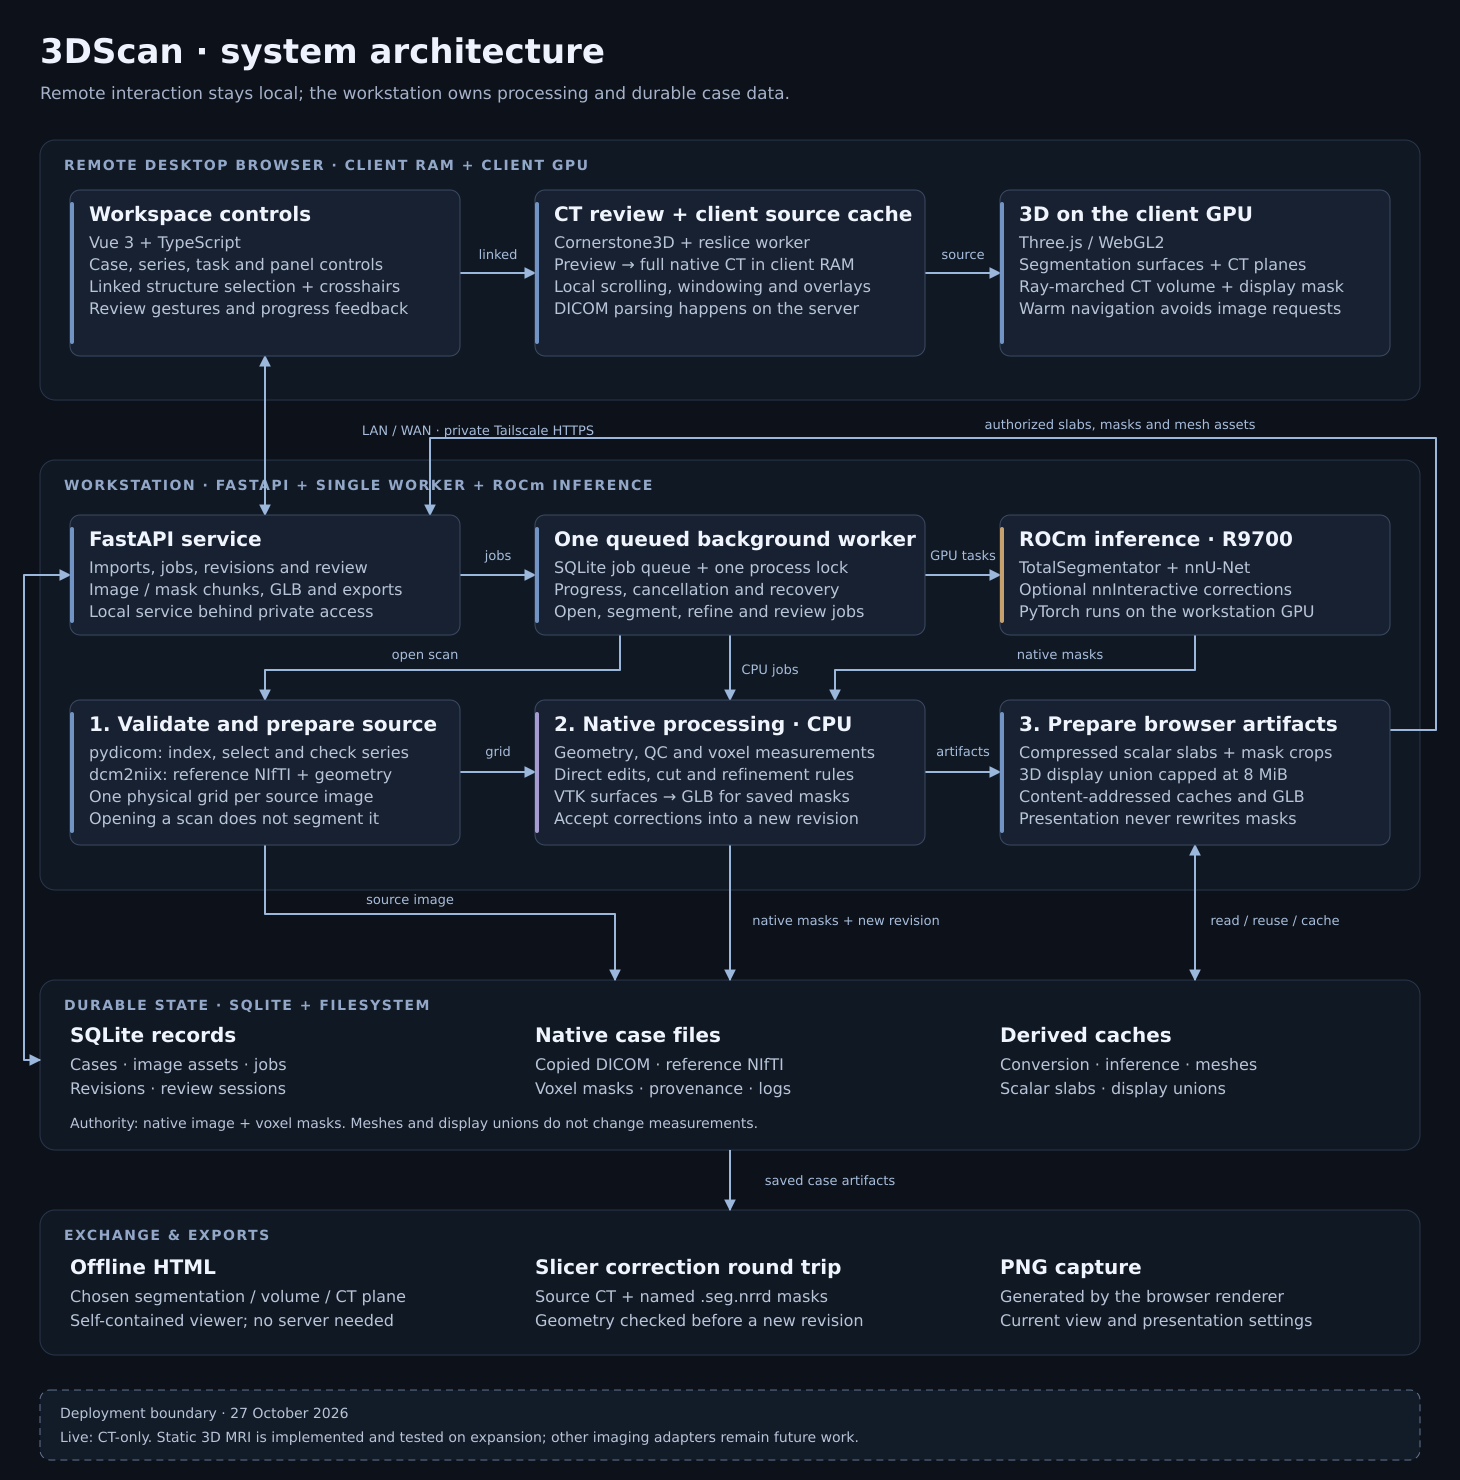
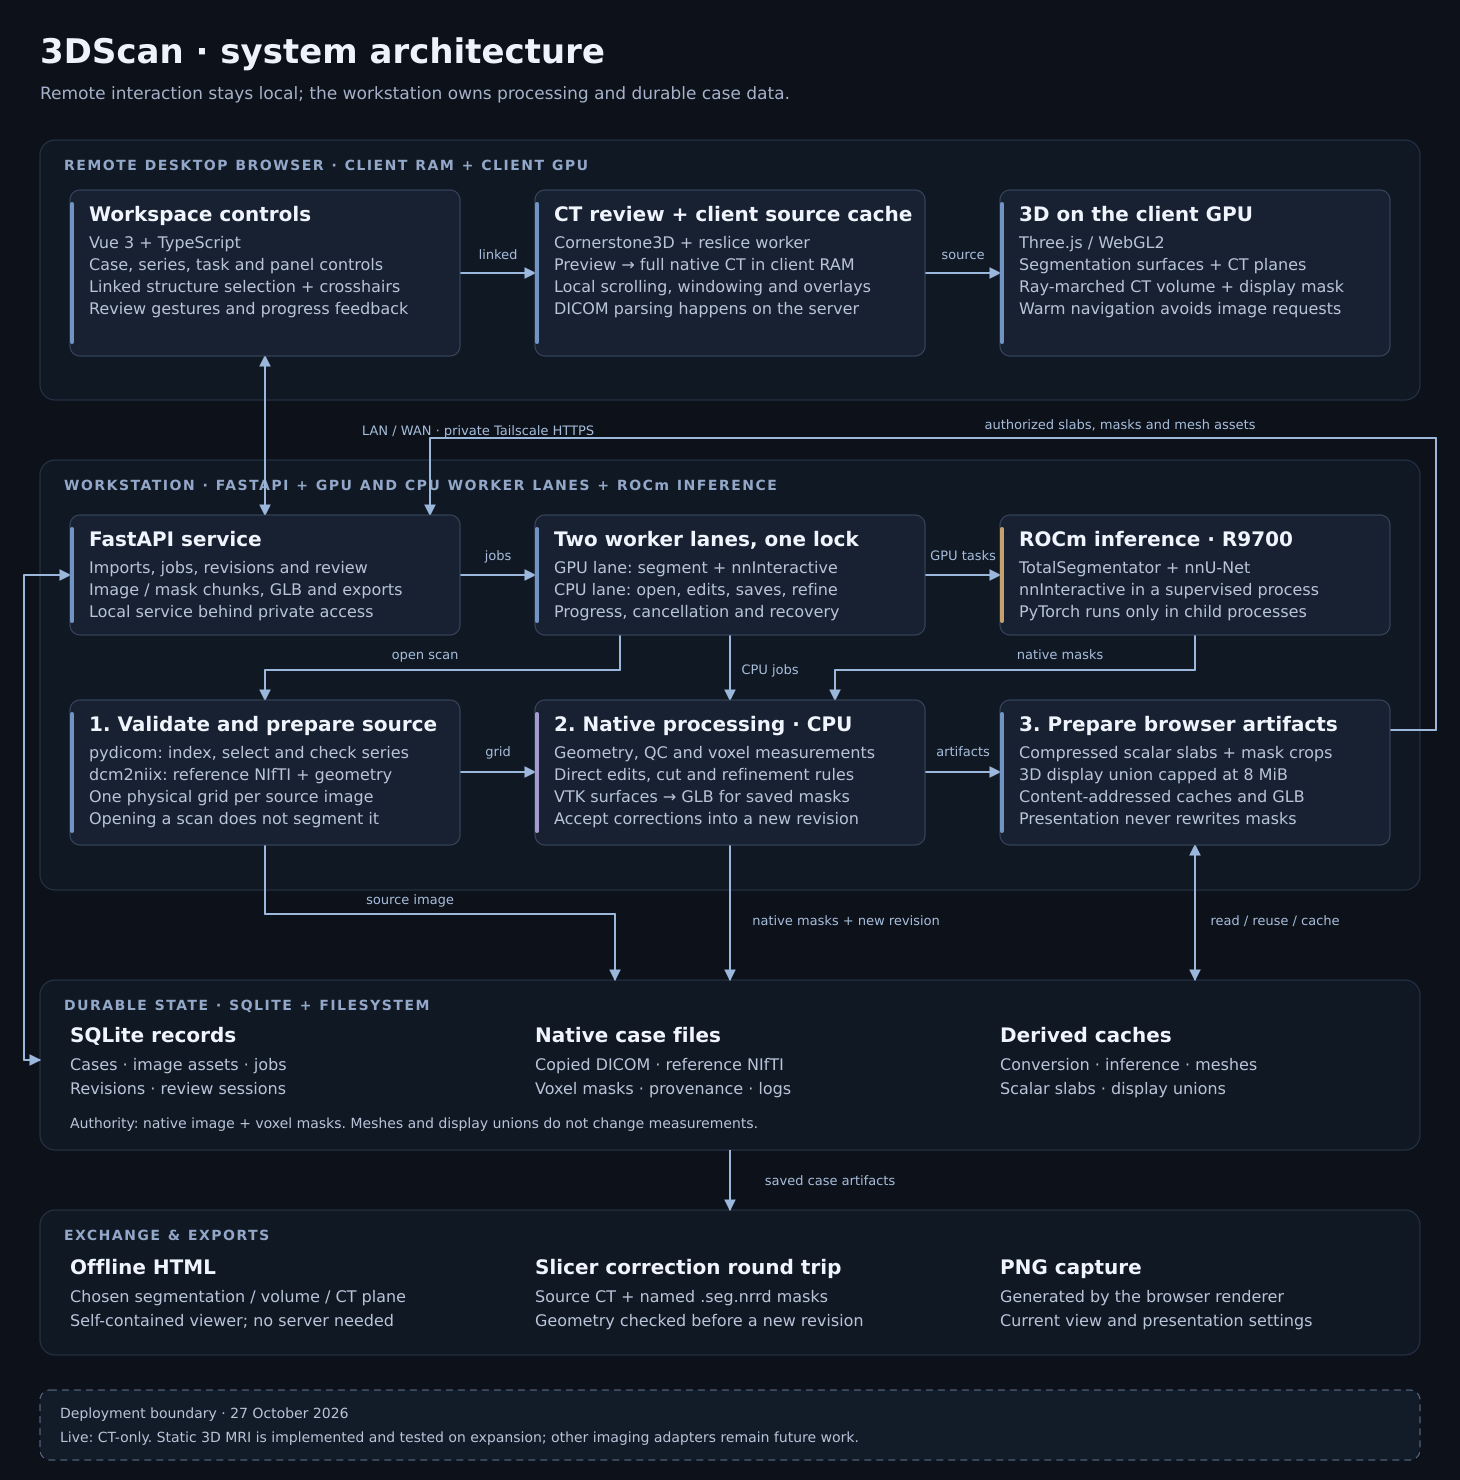
Document worker lanes and the supervised nnInteractive process
The contract gains a jobs-and-lanes section (job kinds per lane, review
priority, recovery, cross-lane guards, the shared preparation budget and
CLI behaviour), the worker-process protocol and failure handling under
assisted correction, and per-lane health. The architecture text and
Mermaid flows replace the single worker with the GPU and CPU lanes and add
a lane diagram; the overview SVG and PNG are regenerated from their
generator with rsvg-convert, which reproduces the previous PNG exactly.
The README, production runtime and expansion notes no longer describe
in-process nnInteractive or a single worker.

Changed region(s): [[0.2158, 0.3108, 0.6164, 0.4351], [0.7089, 0.373, 0.8938, 0.4351]]

diff --git a/docs/diagrams/render_architecture.py b/docs/diagrams/render_architecture.py
@@ -9,7 +9,7 @@ from xml.sax.saxutils import escape
 OUT = Path(__file__).with_name('architecture.svg')
 parts = ['''<svg xmlns="http://www.w3.org/2000/svg" width="1460" height="1480" viewBox="0 0 1460 1480" role="img" aria-labelledby="title description">
 <title id="title">3DScan system architecture</title>
-<desc id="description">Remote browser uses Cornerstone3D and Three.js with client RAM and GPU caches. Private HTTPS connects it to FastAPI on the workstation. One SQLite-backed worker prepares images, runs optional segmentation and corrections, and builds native-mask measurements and surfaces. ROCm inference uses the workstation GPU. SQLite, native files and derived caches persist separately. Exports include offline HTML, Slicer round trips and browser PNG. Live deployment is CT-only; static MRI is implemented on the expansion branch.</desc>
+<desc id="description">Remote browser uses Cornerstone3D and Three.js with client RAM and GPU caches. Private HTTPS connects it to FastAPI on the workstation. One locked SQLite-backed worker set runs a GPU lane for segmentation and nnInteractive corrections, one job at a time, and a CPU lane that prepares images, applies direct edits, saves corrections and builds native-mask measurements and surfaces. ROCm inference uses the workstation GPU from child processes. SQLite, native files and derived caches persist separately. Exports include offline HTML, Slicer round trips and browser PNG. Live deployment is CT-only; static MRI is implemented on the expansion branch.</desc>
 <defs><marker id="arrow" viewBox="0 0 12 12" refX="10" refY="6" markerWidth="7" markerHeight="7" orient="auto-start-reverse"><path d="M1 1L11 6L1 11Z" fill="#9bb7db"/></marker></defs>
 <style>text{font-family:Inter,"DejaVu Sans",Arial,sans-serif}.title{fill:#edf2fc;font-weight:650;font-size:34px}.subtitle{fill:#a5b2c9;font-size:17px}.lane{font-size:14px;font-weight:650;letter-spacing:1.5px;fill:#93a8c9}.card-title{fill:#f0f4fc;font-size:20px;font-weight:650}.body{fill:#b8c4d8;font-size:16px}.edge-label{fill:#a7bddb;font-size:13px}.small{fill:#b8c4d8;font-size:14px}.edge{fill:none;stroke:#9bb7db;stroke-width:2;stroke-linejoin:round;marker-end:url(#arrow)}.both{marker-start:url(#arrow)}</style>
 <rect width="1460" height="1480" fill="#0c111a"/>
@@ -36,7 +36,7 @@ def edge(path,label=None,x=0,y=0,both=False):
 text(40,63,'3DScan · system architecture','title')
 text(40,99,'Remote interaction stays local; the workstation owns processing and durable case data.','subtitle')
 region(40,140,1380,260,'REMOTE DESKTOP BROWSER  ·  CLIENT RAM + CLIENT GPU')
-region(40,460,1380,430,'WORKSTATION  ·  FASTAPI + SINGLE WORKER + ROCm INFERENCE')
+region(40,460,1380,430,'WORKSTATION  ·  FASTAPI + GPU AND CPU WORKER LANES + ROCm INFERENCE')
 region(40,980,1380,170,'DURABLE STATE  ·  SQLITE + FILESYSTEM')
 region(40,1210,1380,145,'EXCHANGE & EXPORTS')
 
@@ -78,14 +78,14 @@ card(70,515,390,120,'FastAPI service',[
  'Imports, jobs, revisions and review',
  'Image / mask chunks, GLB and exports',
  'Local service behind private access'])
-card(535,515,390,120,'One queued background worker',[
- 'SQLite job queue + one process lock',
- 'Progress, cancellation and recovery',
- 'Open, segment, refine and review jobs'])
+card(535,515,390,120,'Two worker lanes, one lock',[
+ 'GPU lane: segment + nnInteractive',
+ 'CPU lane: open, edits, saves, refine',
+ 'Progress, cancellation and recovery'])
 card(1000,515,390,120,'ROCm inference · R9700',[
  'TotalSegmentator + nnU-Net',
- 'Optional nnInteractive corrections',
- 'PyTorch runs on the workstation GPU'], '#c7a16d')
+ 'nnInteractive in a supervised process',
+ 'PyTorch runs only in child processes'], '#c7a16d')
 card(70,700,390,145,'1. Validate and prepare source',[
  'pydicom: index, select and check series',
  'dcm2niix: reference NIfTI + geometry',

diff --git a/docs/ARCHITECTURE.md b/docs/ARCHITECTURE.md
@@ -40,15 +40,15 @@ flowchart LR
   subgraph HOST["Processing workstation"]
     direction TB
     API["FastAPI<br/>Import, jobs, revisions, review, transport and exports"]
-    QUEUE["SQLite-backed job queue<br/>One locked background worker<br/>Progress, cancellation and restart recovery"]
+    QUEUE["SQLite-backed job queue<br/>One locked worker set: GPU lane + CPU lane<br/>Progress, cancellation and restart recovery"]
     PREP["Source preparation<br/>pydicom indexing and geometry checks<br/>dcm2niix conversion to a reference NIfTI grid"]
-    GPU["Workstation GPU: PyTorch / ROCm / R9700<br/>TotalSegmentator with nnU-Net<br/>Optional warm nnInteractive runtime"]
+    GPU["Workstation GPU: PyTorch / ROCm / R9700<br/>TotalSegmentator subprocess with nnU-Net<br/>Optional warm nnInteractive worker process"]
     CPU["Bounded CPU processing<br/>Native-mask QC and voxel measurements<br/>Direct edits, refinement and overlap rules<br/>VTK surfaces and GLB generation"]
     TRANSPORT["Presentation transport<br/>Compressed scalar slabs, native overlay crops, GLB<br/>Cropped display-mask union at most 8 MiB"]
     API --> QUEUE
-    QUEUE --> PREP
-    QUEUE --> GPU
-    QUEUE --> CPU
+    QUEUE -->|"CPU lane"| PREP
+    QUEUE -->|"GPU lane · one job at a time"| GPU
+    QUEUE -->|"CPU lane"| CPU
     PREP --> CPU
     GPU --> CPU
     CPU --> TRANSPORT
@@ -106,26 +106,60 @@ flowchart TD
   SAVE --> VIEW
 
   VIEW --> METHOD{"Correction method"}
-  METHOD --> DIRECT["Direct paint / erase / 3D cut<br/>CPU mask operations"]
-  METHOD --> AI["Optional nnInteractive prompts<br/>Workstation GPU inference"]
+  METHOD --> DIRECT["Direct paint / erase / 3D cut<br/>CPU lane mask operations"]
+  METHOD --> AI["Optional nnInteractive prompts<br/>GPU lane, supervised worker process"]
   DIRECT --> CANDIDATE["Candidate mask<br/>Geometry / overlap checks and change summary"]
   AI --> CANDIDATE
   CANDIDATE --> PREVIEW["Linked CT / 3D candidate preview"]
   PREVIEW -->|"Keep editing"| METHOD
   PREVIEW -->|"Discard"| VIEW
-  PREVIEW -->|"Explicit acceptance"| NEW["Create a new mask revision<br/>Preserve its parent and original masks"]
+  PREVIEW -->|"Explicit acceptance"| NEW["Create a new mask revision on the CPU lane<br/>Preserve its parent and original masks"]
   NEW --> ARTIFACTS
   SAVE -->|"Undo: activate an earlier revision"| VIEW
 ```
 
-The worker serializes queued processing; it is a background thread backed by
-SQLite and a filesystem process lock, not an external broker. Dense mask
-analysis and surface preparation use a bounded CPU thread pool internally.
-Completed stages remain reusable after cancellation or restart.
+## Job lanes and the nnInteractive worker
+
+```mermaid
+flowchart LR
+  CLIENTS["FastAPI and CLI"] -->|"enqueue"| JOBS[("SQLite jobs")]
+  subgraph WORKERS["Worker set · one per data directory, held by worker.lock"]
+    direction TB
+    GPULANE["GPU lane thread<br/>one job at a time"]
+    CPULANE["CPU lane thread<br/>one job at a time"]
+    BUDGET["Shared measurement and surface budget<br/>SCAN3D_POSTPROCESS_WORKERS"]
+    GPULANE --> BUDGET
+    CPULANE --> BUDGET
+  end
+  JOBS -->|"claim: review work first"| GPULANE
+  JOBS -->|"claim: review work first"| CPULANE
+  GPULANE -->|"segment"| TS["TotalSegmentator subprocess"]
+  GPULANE <-->|"JSON lines on a socket pair<br/>predict / cancel / shutdown<br/>ready / progress / result / error"| CHILD["nnInteractive worker process<br/>warm model and CT on the R9700<br/>imports torch; the API process never does"]
+  CPULANE --> CPUWORK["Preparation, direct edits, relationship-only Apply,<br/>saves, refinement, Slicer import, include-all"]
+```
+
+Queued processing runs on two background threads backed by SQLite and one
+filesystem process lock, not an external broker. The GPU lane runs
+TotalSegmentator and nnInteractive predictions strictly one at a time. The CPU
+lane runs everything that never touches the GPU, so direct edits and saves no
+longer wait behind a segmentation. Each lane takes review work before queued
+batch work. Transactional active-revision and generation guards, not queue
+order, decide between jobs that finish on different lanes.
+
+nnInteractive runs in a supervised child process that the GPU lane starts on
+demand, keeping its model warm between Apply batches. A crash, hang or GPU
+failure fails only that job; the next request starts a fresh child. Ignored
+cancellation is enforced by killing the child's process group after a grace
+period. Before TotalSegmentator runs, the child exits to return all of its VRAM.
+
+Dense mask analysis and surface preparation use bounded CPU thread pools that
+share one service-wide budget across both lanes. Completed stages remain
+reusable after cancellation or restart.
 
 ## Code map
 
-- [API and transport](../scan3d/api.py), [job dispatch and revision building](../scan3d/service.py), [SQLite and activation](../scan3d/store.py).
+- [API and transport](../scan3d/api.py), [job lanes, dispatch and revision building](../scan3d/service.py), [SQLite, claims and activation](../scan3d/store.py).
+- [nnInteractive engine](../scan3d/interactive.py) and its [supervised worker process](../scan3d/interactive_worker.py).
 - [DICOM preparation](../scan3d/dicom.py), [inference](../scan3d/segmentation.py), [native operations and measurements](../scan3d/imaging.py), [CPU surfaces](../scan3d/surfaces.py).
 - [Candidate review and acceptance](../scan3d/review.py), [scalar/mask transport](../scan3d/review_volume.py), [display union](../scan3d/volume_mask_union.py).
 - [Browser source worker](../web/src/lib/ct-volume.ts), [Cornerstone adapter](../web/src/lib/cornerstone-runtime.ts), [3D scene](../web/src/lib/scene.ts), [volume renderer](../web/src/lib/ct-volume-renderer.ts).

diff --git a/README.md b/README.md
@@ -353,13 +353,20 @@ Source hashes record the exact processing code and downloaded model checkpoints.
 ## Architecture and validation
 
 - FastAPI + SQLite persists case, job, revision and assisted-review draft records. A filesystem lock
-  enforces one worker across API and CLI processes; jobs interrupted by restart
-  remain retryable and completed conversion/inference stages are reused.
-- Assisted review shares that queue with TotalSegmentator and keeps one model
-  and CT warm for successive Apply batches. Undo replays from the saved original
-  mask using recorded batch boundaries when needed. Warm interactive GPU state is released before TotalSegmentator
-  starts. Draft generations and active-revision checks prevent stale results
-  from replacing another correction; accepted revisions record point history,
+  enforces one worker set across API and CLI processes. Its GPU lane runs
+  TotalSegmentator and nnInteractive one job at a time. Its CPU lane runs
+  preparation, direct edits, saves, refinement and imports, which therefore do
+  not wait behind a segmentation. Each lane takes review work before queued
+  batch work. Jobs interrupted by restart remain retryable, and completed
+  conversion/inference stages are reused.
+- Assisted review keeps one model and CT warm for successive Apply batches in a
+  supervised worker process; the API process never imports torch. A crash or
+  hang fails only that job, and the next Apply starts a fresh worker. Cancelled
+  inference stops cooperatively, or the worker is killed after 10 s. Undo
+  replays from the saved original mask using recorded batch boundaries when
+  needed. The worker exits, returning its VRAM, before TotalSegmentator starts.
+  Draft generations and active-revision checks prevent stale results from
+  replacing another correction; accepted revisions record point history,
   model/checkpoint identity, device, timings and exact voxel/volume changes.
 - nibabel/SimpleITK and full affine transforms preserve patient geometry. Meshes
   use glTF metres; API coordinates and measurements use millimetres/millilitres.
